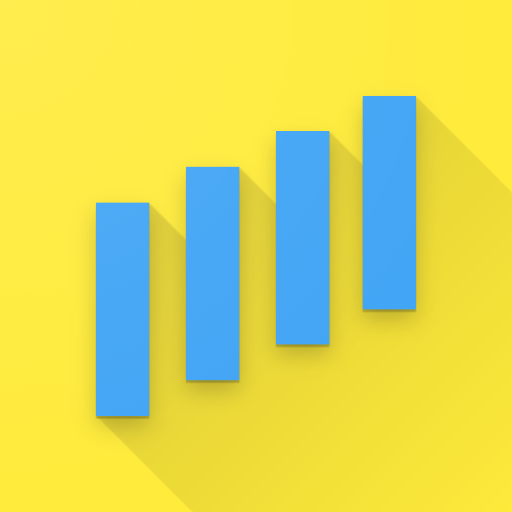
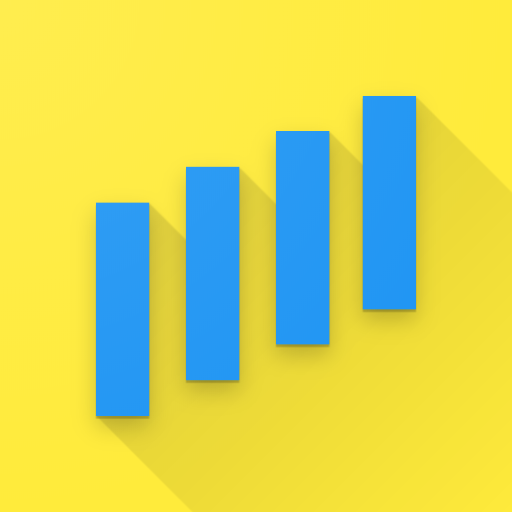
About tab. Added error snackbars, changed color a little.

diff --git a/lib/app.dart b/lib/app.dart
@@ -4,6 +4,7 @@ import 'package:flutter/material.dart';
 
 import 'about.dart';
 import 'config.dart';
+import 'error.dart';
 import 'usage.dart';
 import 'task.dart';
 
@@ -13,10 +14,11 @@ class App extends StatefulWidget {
 }
 
 class _AppState extends State<App> {
-  static const int _tasksMax = 8;
+  static const int _tasksMax = 50;
   Queue<Task> _tasks = Queue();
   List<List<Widget>> _tabs;
   int _tabIndex = 0;
+  BuildContext _scaffoldContext;
 
   _AppState() {
     configRead(_tasksMax, _removeFirstTask, _saveTasks).then((tasks) {
@@ -33,36 +35,39 @@ class _AppState extends State<App> {
       [Usage()],
       [About()],
     ];
-    return SafeArea(
-      child: Scaffold(
-        backgroundColor: Theme.of(context).primaryColorLight,
-        body: ListView(
-          children: _tabs[_tabIndex],
-        ),
-        floatingActionButton: _renderFloatingButton,
-        floatingActionButtonLocation: FloatingActionButtonLocation.endFloat,
-        bottomNavigationBar: BottomAppBar(
-          child: BottomNavigationBar(
-            backgroundColor: Theme.of(context).primaryColor,
-            selectedItemColor: Theme.of(context).accentColor,
-            unselectedItemColor: Theme.of(context).iconTheme.color,
-            currentIndex: _tabIndex,
-            items: [
-              BottomNavigationBarItem(
-                icon: Icon(Icons.queue),
-                title: Text('Queue'),
-              ),
-              BottomNavigationBarItem(
-                icon: Icon(Icons.check_box),
-                title: Text('Usage'),
-              ),
-              BottomNavigationBarItem(
-                icon: Icon(Icons.description),
-                title: Text('About'),
-              ),
-            ],
-            onTap: _switchTab,
-          ),
+    return Scaffold(
+      backgroundColor: Theme.of(context).primaryColorLight,
+      body: Builder(
+        builder: (BuildContext context) {
+          _scaffoldContext = context;
+          return ListView(
+            children: _tabs[_tabIndex],
+          );
+        },
+      ),
+      floatingActionButton: _renderFloatingButton,
+      floatingActionButtonLocation: FloatingActionButtonLocation.endFloat,
+      bottomNavigationBar: BottomAppBar(
+        child: BottomNavigationBar(
+          backgroundColor: Theme.of(context).primaryColorDark,
+          selectedItemColor: Theme.of(context).accentColor,
+          unselectedItemColor: Theme.of(context).iconTheme.color,
+          currentIndex: _tabIndex,
+          items: [
+            BottomNavigationBarItem(
+              icon: Icon(Icons.queue),
+              title: Text('Queue'),
+            ),
+            BottomNavigationBarItem(
+              icon: Icon(Icons.check_box),
+              title: Text('Usage'),
+            ),
+            BottomNavigationBarItem(
+              icon: Icon(Icons.description),
+              title: Text('About'),
+            ),
+          ],
+          onTap: _switchTab,
         ),
       ),
     );
@@ -94,6 +99,9 @@ class _AppState extends State<App> {
       if (_tasks.length == 1) {
         _tasks.first.isFirstInQueue = true;
       }
+    } else {
+      showErrorSnackBar(
+          _scaffoldContext, 'Maximum number of tasks is $_tasksMax.');
     }
   }
 

diff --git a/lib/about.dart b/lib/about.dart
@@ -1,26 +1,84 @@
 import 'package:flutter/material.dart';
 
+import 'package:url_launcher/url_launcher.dart';
+
+import 'error.dart';
+
 class About extends StatelessWidget {
+  static const String _authorUrl = 'https://gitlab.com/mattmaniak';
+  static const String _repoUrl = '$_authorUrl/queuetodo';
+
   @override
   Widget build(BuildContext context) {
     return Center(
       child: Column(
         children: [
-          Card(
-            shape: RoundedRectangleBorder(
-              borderRadius: BorderRadius.all(
-                Radius.circular(
-                  16.0,
-                ),
-              ),
-            ),
-            child: ListTile(
-              title: Text('Created by mattmaniak.'),
-              trailing: Icon(Icons.open_in_new),
-            ),
+          _AboutCard(
+            title: 'Created by mattmaniak',
+            url: _authorUrl,
+          ),
+          _AboutCard(
+            title: 'Source code',
+            url: _repoUrl,
+          ),
+          _AboutCard(
+            title: 'Changelog',
+            url: '$_repoUrl/blob/master/CHANGELOG.md',
+          ),
+          _AboutCard(
+            title: 'MIT License',
+            url: '$_repoUrl/blob/master/LICENSE',
+          ),
+          _AboutCard(
+            title: 'Terms of Use',
+            subtitle: Text('Described in the license.'),
+          ),
+          _AboutCard(
+            title: 'Privacy Policy',
+            subtitle: Text('No data is collected.'),
           ),
         ],
       ),
     );
+  }
+}
+
+class _AboutCard extends StatelessWidget {
+  final String title;
+  final Text subtitle;
+  final String url;
+
+  const _AboutCard({@required this.title, this.subtitle, this.url});
+
+  @override
+  Widget build(BuildContext context) {
+    return Card(
+      shape: RoundedRectangleBorder(
+        borderRadius: BorderRadius.all(
+          Radius.circular(
+            16.0,
+          ),
+        ),
+      ),
+      child: ListTile(
+        title: Text(title),
+        subtitle: subtitle,
+        trailing: url != null
+            ? IconButton(
+                icon: Icon(
+                  Icons.open_in_new,
+                  color: Theme.of(context).accentColor,
+                ),
+                onPressed: () => _openUrlInBrowser(context),
+              )
+            : null,
+      ),
+    );
+  }
+
+  void _openUrlInBrowser(BuildContext context) async {
+    if (!(await canLaunch(url) && await launch(url))) {
+      showErrorSnackBar(context, 'Unable to open a browser.');
+    }
   }
 }

diff --git a/lib/task.dart b/lib/task.dart
@@ -2,6 +2,8 @@ import 'package:flutter/material.dart';
 
 import 'package:intl/intl.dart';
 
+import 'error.dart';
+
 class Task extends StatefulWidget {
   final int maxDescriptionLength = 500;
   final int maxTitleLength = 50;
@@ -48,6 +50,10 @@ class _TaskState extends State<Task> {
               ..title = widget.titleController.text
               ..lastModified = DateTime.now();
           });
+          if (widget.title.length == widget?.maxTitleLength) {
+            showErrorSnackBar(
+                context, 'Title length limit is ${widget?.maxTitleLength}.');
+          }
         }
       })
       ..descriptionController.addListener(() {
@@ -57,6 +63,10 @@ class _TaskState extends State<Task> {
               ..description = widget.descriptionController.text
               ..lastModified = DateTime.now();
           });
+          if (widget.description.length == widget?.maxDescriptionLength) {
+            showErrorSnackBar(context,
+                'Description length limit is ${widget?.maxDescriptionLength}.');
+          }
         }
       })
       ..descriptionController.text = widget?.description ?? ''

diff --git a/lib/theme.dart b/lib/theme.dart
@@ -4,19 +4,19 @@ ThemeData get theme {
   const Color yellow_100 = Color(0xfffff9c4);
   const Color yellow_500 = Color(0xffffeb3b);
   const Color yellow_700 = Color(0xfffbc02d);
-  const Color blue_400 = Color(0xff42a5f5);
+  const Color blue_500 = Color(0xff2196f3);
   const Color red_300 = Color(0xffe57373);
 
   return ThemeData(
+    brightness: Brightness.light,
+    accentColorBrightness: Brightness.light,
     primaryColor: yellow_500,
     primaryColorLight: yellow_100,
     primaryColorDark: yellow_700,
-    // brightness: Brightness.light,
-    accentColor: blue_400,
-    accentColorBrightness: Brightness.light,
-    buttonColor: blue_400,
-    dividerColor: Colors.transparent,
-    errorColor: red_300,
+    accentColor: blue_500,
+    buttonColor: blue_500,
     cardColor: yellow_500,
+    errorColor: red_300,
+    dividerColor: Colors.transparent,
   );
 }

diff --git a/lib/error.dart b/lib/error.dart
@@ -1,0 +1,17 @@
+import 'package:flutter/material.dart';
+import 'package:flutter/widgets.dart';
+
+void showErrorSnackBar(BuildContext context, String message) {
+  Scaffold.of(context).showSnackBar(
+    SnackBar(
+      content: Text(
+        message,
+        textAlign: TextAlign.center,
+        style: TextStyle(
+          color: Theme.of(context).errorColor,
+        ),
+      ),
+      duration: Duration(seconds: 5),
+    ),
+  );
+}

diff --git a/lib/main.dart b/lib/main.dart
@@ -8,7 +8,9 @@ void main() {
     MaterialApp(
       theme: theme,
       title: 'QueueToDo',
-      home: App(),
+      home: SafeArea(
+        child: App(),
+      ),
     ),
   );
 }

diff --git a/README.md b/README.md
@@ -10,5 +10,8 @@ Just press the 'Add' button to create one. Set a short title and a little longer
 description. Push even more tasks to the Queue and always start your work with
 the first one.
 
+## Terms of Use
+Described in the license.
+
 ## Pricacy Policy
 No data is collected.
